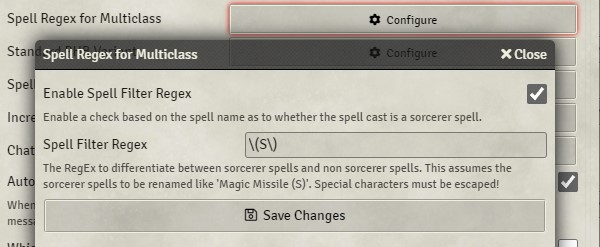
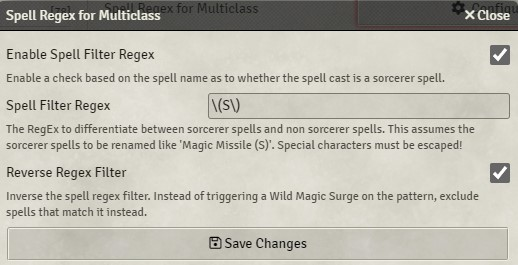
Add option to inverse spell regex

diff --git a/scripts/utils/SpellParser.test.ts b/scripts/utils/SpellParser.test.ts
@@ -292,7 +292,7 @@ describe("SpellParser", () => {
       };
       (global as any).game = {
         settings: {
-          get: jest.fn().mockReturnValue("\\(S\\)"),
+          get: jest.fn().mockReturnValueOnce("\\(S\\)").mockReturnValueOnce(false),
         },
       };
     });
@@ -310,6 +310,35 @@ describe("SpellParser", () => {
         const result = SpellParser.IsSorcererSpell(firstLevel);
 
         expect(result).toBeFalsy();
+      });
+    });
+  });
+
+  describe("IsSorcererSpell Negative Lookup", () => {
+    beforeEach(() => {
+      (global as any).Hooks = {
+        callAll: jest.fn().mockReturnValue(true),
+      };
+      (global as any).game = {
+        settings: {
+          get: jest.fn().mockReturnValueOnce("\\(S\\)").mockReturnValueOnce(true),
+        },
+      };
+    });
+
+    describe("Is a Sorcerer Spell", () => {
+      it("should be false", async () => {
+        const result = SpellParser.IsSorcererSpell(sorcererSpecificSpell);
+
+        expect(result).toBeFalsy();
+      });
+    });
+
+    describe("Is not a Sorcerer Spell", () => {
+      it("should be true", async () => {
+        const result = SpellParser.IsSorcererSpell(firstLevel);
+
+        expect(result).toBeTruthy();
       });
     });
   });

diff --git a/scripts/ModuleSettings.ts b/scripts/ModuleSettings.ts
@@ -55,6 +55,19 @@ class ModuleSettings {
 
     game.settings.register(
       `${WMSCONST.MODULE_ID}`,
+      `${WMSCONST.OPT_SPELL_REGEX_INVERSE}`,
+      {
+        name: game.i18n.format("WildMagicSurge5E.opt_spell_regex_inverse_name"),
+        hint: game.i18n.format("WildMagicSurge5E.opt_spell_regex_inverse_hint"),
+        scope: "world",
+        config: false,
+        default: false,
+        type: Boolean,
+      }
+    );
+
+    game.settings.register(
+      `${WMSCONST.MODULE_ID}`,
       `${WMSCONST.OPT_SPELL_REGEX}`,
       {
         name: game.i18n.format("WildMagicSurge5E.opt_spell_regex_name"),

diff --git a/scripts/panels/SpellRegexSettingsPanel.ts b/scripts/panels/SpellRegexSettingsPanel.ts
@@ -19,7 +19,7 @@ export class SpellRegexSettingsPanel extends FormApplication {
 
   // @ts-expect-error TS(2416): Property 'getData' in type 'SpellRegexSettingsPane... Remove this comment to see the full error message
   getData() {
-    const settings = [WMSCONST.OPT_SPELL_REGEX_ENABLED, WMSCONST.OPT_SPELL_REGEX];
+    const settings = [WMSCONST.OPT_SPELL_REGEX_ENABLED, WMSCONST.OPT_SPELL_REGEX, WMSCONST.OPT_SPELL_REGEX_INVERSE];
 
     return {
       modules: this.settingsList(settings),

diff --git a/scripts/utils/SpellParser.ts b/scripts/utils/SpellParser.ts
@@ -109,7 +109,16 @@ export default class SpellParser {
       `${WMSCONST.OPT_SPELL_REGEX}`
     );
 
-    return !!spellName?.match(spellRegex);
+    const isInverse = game.settings.get(
+      `${WMSCONST.MODULE_ID}`,
+      `${WMSCONST.OPT_SPELL_REGEX_INVERSE}`
+    );
+
+    if (isInverse) {
+      return spellName?.match(spellRegex) ? false : true;
+    } else {
+      return !!spellName?.match(spellRegex);
+    }
   }
 
   /**

diff --git a/scripts/WMSCONST.ts b/scripts/WMSCONST.ts
@@ -98,6 +98,7 @@ export const WMSCONST = {
   ],
 
   OPT_SPELL_REGEX: "spellRegex",
+  OPT_SPELL_REGEX_INVERSE: "spellRegexInverse",
   OPT_SPELL_REGEX_ENABLED: "spellRegexEnabled",
 
   OPT_SURGE_TOC_ENABLED: "surgeTocEnabled",

diff --git a/README.md b/README.md
@@ -170,9 +170,11 @@ Special thanks to [Jackolas126](https://github.com/Jackolas126) for this suggest
 
 [![Setup varying Wild Magic Surge triggers dependent on spell level](https://raw.githubusercontent.com/johnnolan/wild-magic-surge-5e/main/images/varying-triggers.jpg)](https://raw.githubusercontent.com/johnnolan/wild-magic-surge-5e/main/images/varying-triggers.jpg)
 
-### Spell Regex for Multiclass spells
+### Spell Regex for Multiclass spells and excluding certain spells from triggering a Wild Magic Surge
 
 The RegEx to differentiate between sorcerer spells and non sorcerer spells. This assumes the sorcerer spells to be renamed like `Magic Missile (S)`. Special characters must be escaped!
+
+If you want to reverse this logic you can choose to tick the `Reverse Regex Filter` option. This is for spells that you don't want to trigger a Wild Magic Surge that are cast from the sorcerer.
 
 Special thanks to [Jakob Huber](https://github.com/gh7531) for this suggestion and Pull Request.
 
